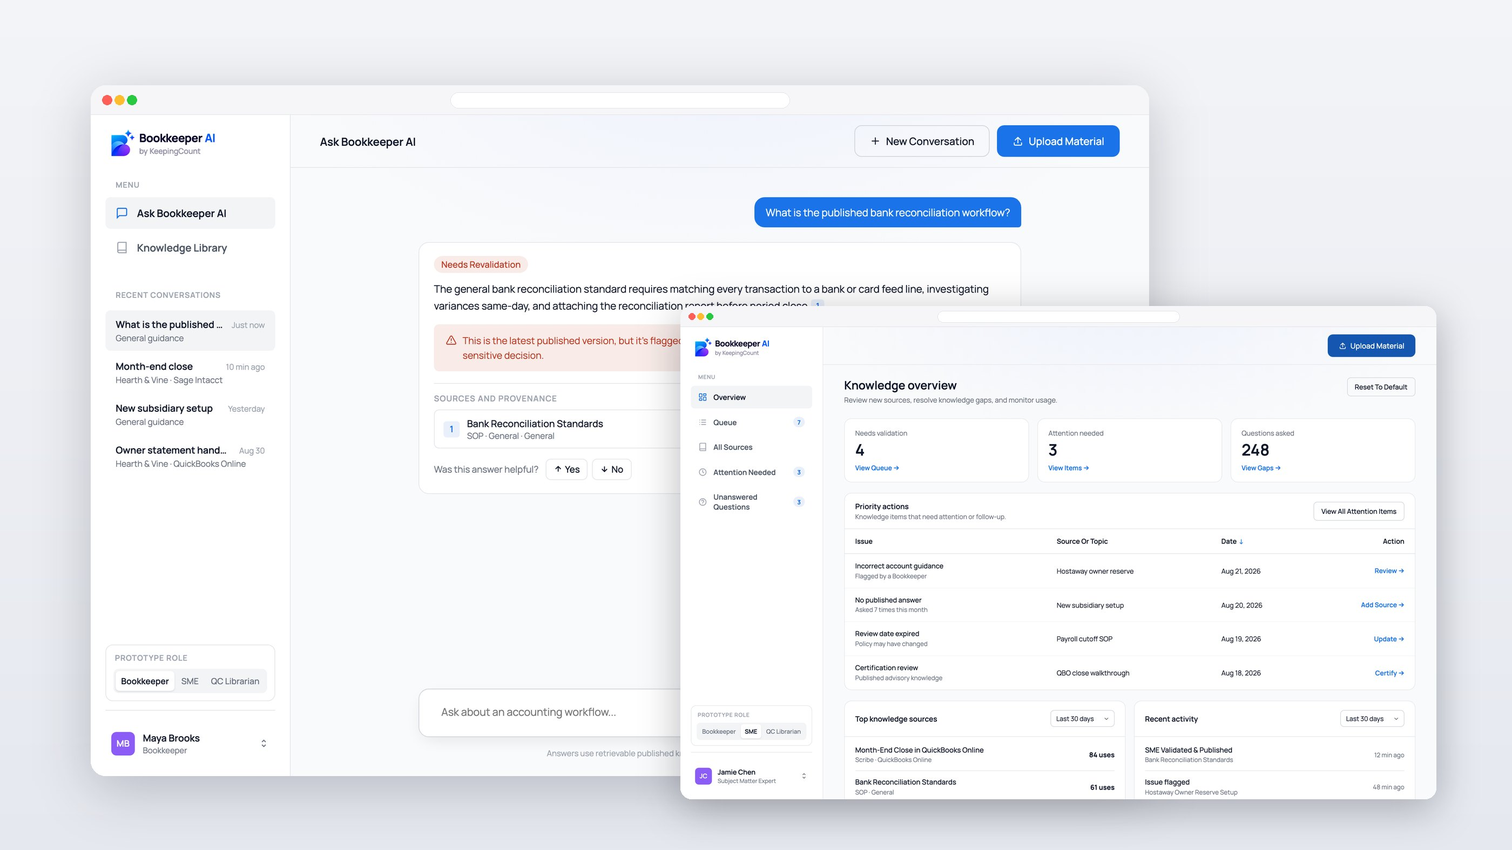
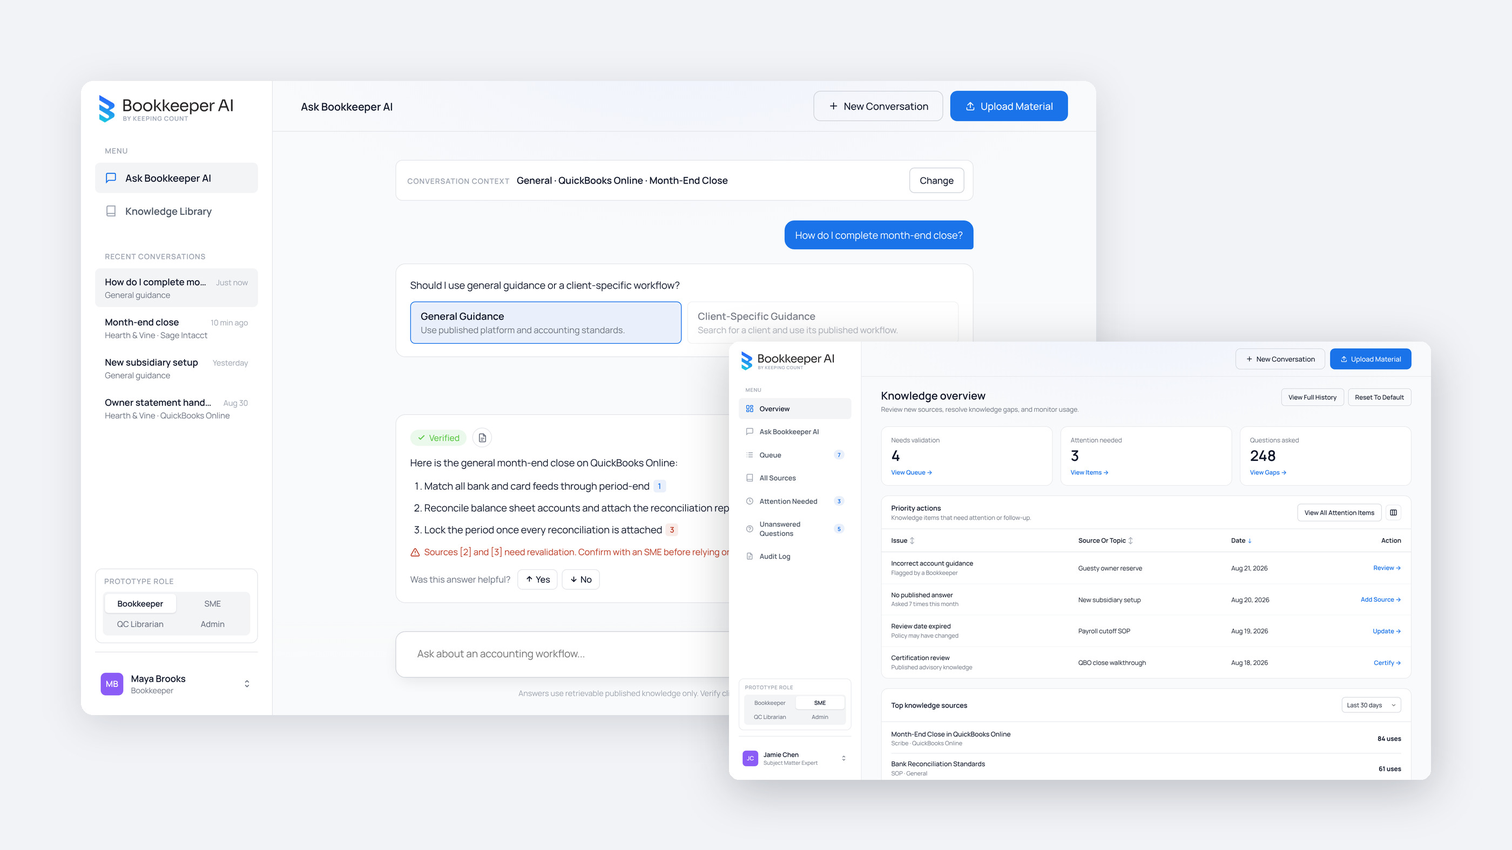
BookKeeper AI: rebuilt from live prototype, photos, flow stairs; 4th on home
Claude-Session: https://claude.ai/code/session_019s9hMNDEcLkm54bZicL17g

diff --git a/cases/bookkeeper-ai.html b/cases/bookkeeper-ai.html
@@ -199,6 +199,16 @@ figure{margin:0}
 
 /* «следующий кейс»: тёмное затемнение снизу, светлый текст */
 .ncase .media::after{background:linear-gradient(to top,rgba(10,14,24,.82) 0%,rgba(10,14,24,.45) 30%,rgba(10,14,24,0) 60%)!important}.ncase .lbl small{color:rgba(255,255,255,.75)!important}.ncase .lbl b{color:#fff!important}
+
+/* User flow: лестница шагов */
+.fstairs{position:relative;display:grid;grid-template-columns:repeat(6,1fr);column-gap:0;row-gap:18px;padding:28px 0}.fstairs>i{position:absolute;top:0;bottom:0;width:0;border-left:1.5px dashed #D5D9E2}.fstairs>i:nth-child(1){left:calc(0% + 50px)}.fstairs>i:nth-child(2){left:calc(16.666% + 50px)}.fstairs>i:nth-child(3){left:calc(33.333% + 50px)}.fstairs>i:nth-child(4){left:calc(50% + 50px)}.fstairs>i:nth-child(5){left:calc(66.666% + 50px)}.fs{position:relative;z-index:1;grid-row:calc(var(--i) + 1);grid-column:calc(var(--i) + 1)/span 2;display:flex;gap:16px;align-items:center;background:#fff;border-radius:24px;padding:12px 22px 12px 12px;box-shadow:0 0 0 1px rgba(18,23,64,.07),0 16px 34px -20px rgba(18,23,64,.25)}.fs-ic{flex:none;width:76px;height:76px;border-radius:18px;display:grid;place-items:center}.fs-ic svg{width:30px;height:30px}.fs-tx{min-width:0}.fs-n{font-size:12px;color:var(--ink-3);font-variant-numeric:tabular-nums}.fs-tx b{display:block;font-family:var(--font-display);font-weight:500;font-size:20px;letter-spacing:-.015em;margin-top:2px}.fs-tx p{font-size:14px;color:var(--ink-2);margin-top:2px}.fs-ch{display:flex;flex-wrap:wrap;gap:6px;margin-top:10px}.fs-ch span{font-size:12px;padding:4px 10px;border-radius:999px;background:#F1F3F8;color:#121740}@media (max-width:980px){.fstairs{grid-template-columns:1fr;padding:0}.fstairs>i{display:none}.fs{grid-row:auto;grid-column:1}}
+
+/* карточки флоу: ровные отступы, концентрические скругления */
+.fs{padding:16px!important;gap:20px!important;align-items:center!important;border-radius:28px!important}.fs-ic{width:88px!important;height:88px!important;align-self:center;border-radius:14px!important}.fs-ic svg{width:32px!important;height:32px!important}.fs-tx{display:flex;flex-direction:column;justify-content:center;padding:6px 14px 6px 0}.fs-n{line-height:1}.fs-tx b{margin-top:8px!important;line-height:1.2}.fs-tx p{margin-top:4px!important;line-height:1.4}.fs-ch{margin-top:12px!important}.fs-ch span{line-height:1.2;padding:5px 10px!important}
+
+/* фото в проблемах/решениях */
+.mix .media img{width:100%;height:100%;object-fit:cover;display:block}
+@media (max-width:980px){.mix .media{position:relative;aspect-ratio:auto!important;min-height:240px}.mix .media img{position:absolute;inset:0}}
 </style>
 </head>
 <body>
@@ -226,7 +236,7 @@ figure{margin:0}
     <div class="tags"><span class="tag">Web app · AI assistant</span><span class="tag acc">[My role]</span></div>
     <span class="year">Accounting operations &nbsp;·&nbsp; [Year]</span>
   </div>
-  <div class="media rv"><img src="../img/cases/bookkeeper-ai/cover.jpg" alt="BookKeeper AI: sourced answer and knowledge overview" loading="lazy"></div>
+  <div class="media rv"><img src="../img/cases/bookkeeper-ai/cover.jpg?v=2" alt="BookKeeper AI: verified answer with sources and the SME knowledge overview" loading="lazy"></div>
 </section>
 <section class="sec cintro">
   <div class="wrap">
@@ -270,13 +280,13 @@ figure{margin:0}
     </div>
     <div class="mix">
       <div class="card rv"><span class="n">01</span><p>SOPs go stale. Platforms and policies change, and nobody knows which guide is still valid.</p></div>
-      <div class="media rv"><img src="../img/cases/bookkeeper-ai/problem-1-outdated.jpg" alt="Knowledge library with sources that need revalidation" loading="lazy"></div>
-      <div class="media rv"><img src="../img/cases/bookkeeper-ai/problem-2-clients.jpg" alt="Client search with several clients" loading="lazy"></div>
+      <div class="media rv"><img src="../img/cases/bookkeeper-ai/photo-p1.jpg?v=1" alt="Shelves of old binders and outdated procedure manuals" loading="lazy"></div>
+      <div class="media rv"><img src="../img/cases/bookkeeper-ai/photo-p2.jpg?v=1" alt="Bookkeeper comparing two clients’ documents side by side" loading="lazy"></div>
       <div class="card rv"><span class="n">02</span><p>Every client has its own workflow. Mixing up two clients’ SOPs is a real risk.</p></div>
-      <div class="media rv"><img src="../img/cases/bookkeeper-ai/problem-3-gaps.jpg" alt="No published guidance found for a question" loading="lazy"></div>
+      <div class="media rv"><img src="../img/cases/bookkeeper-ai/photo-p3.jpg?v=1" alt="Bookkeeper working late without documented guidance" loading="lazy"></div>
       <div class="card rv"><span class="n">03</span><p>When there’s no documented answer, people improvise — and the gap stays invisible.</p></div>
       <div class="card rv"><span class="n">04</span><p>Subject-matter experts are a bottleneck: validation requests pile up with no clear priorities.</p></div>
-      <div class="media rv"><img src="../img/cases/bookkeeper-ai/problem-4-queue.jpg" alt="Queue of items awaiting SME validation and QC certification" loading="lazy"></div>
+      <div class="media rv"><img src="../img/cases/bookkeeper-ai/photo-p4.jpg?v=1" alt="Subject-matter expert buried in review requests" loading="lazy"></div>
     </div>
   </div>
 </section>
@@ -287,14 +297,14 @@ figure{margin:0}
       <p class="body rv">Make every answer traceable, scoped to the right client and backed by people who own the knowledge.</p>
     </div>
     <div class="mix">
-      <div class="media rv"><img src="../img/cases/bookkeeper-ai/solution-1-sources.jpg" alt="Answer with a cited source and its status" loading="lazy"></div>
+      <div class="media rv"><img src="../img/cases/bookkeeper-ai/photo-s1.jpg?v=1" alt="Bookkeeper reading a sourced answer with confidence" loading="lazy"></div>
       <div class="card rv"><span class="n">01</span><p>Answers come only from published sources, with citations, provenance and the source’s lifecycle and certification status.</p></div>
-      <div class="media rv"><img src="../img/cases/bookkeeper-ai/solution-2-scope.jpg" alt="Choosing general or client-specific guidance" loading="lazy"></div>
+      <div class="media rv"><img src="../img/cases/bookkeeper-ai/photo-s2.jpg?v=1" alt="Client folders neatly separated on a shelf" loading="lazy"></div>
       <div class="card rv"><span class="n">02</span><p>Before answering, the assistant clarifies scope: general guidance or a specific client. Another client’s SOPs can’t appear in the answer.</p></div>
       <div class="card rv"><span class="n">03</span><p>Compliance-sensitive answers backed by a source that needs revalidation are shown only after an explicit acknowledgment.</p></div>
-      <div class="media rv"><img src="../img/cases/bookkeeper-ai/solution-3-ack.jpg" alt="Acknowledgment required before viewing the answer" loading="lazy"></div>
+      <div class="media rv"><img src="../img/cases/bookkeeper-ai/photo-s3.jpg?v=1" alt="Ticking an acknowledgment box on a review form" loading="lazy"></div>
       <div class="card rv"><span class="n">04</span><p>Unanswered questions are logged and grouped into knowledge gaps; SMEs and QC get a prioritized overview of what needs attention.</p></div>
-      <div class="media rv"><img src="../img/cases/bookkeeper-ai/solution-4-review.jpg" alt="Knowledge overview with priority actions" loading="lazy"></div>
+      <div class="media rv"><img src="../img/cases/bookkeeper-ai/photo-s4.jpg?v=1" alt="Expert reviewing knowledge with the team" loading="lazy"></div>
     </div>
   </div>
 </section>
@@ -304,10 +314,7 @@ figure{margin:0}
       <h2 class="h2 rv">User flow</h2>
       <p class="body rv">The core path from a bookkeeper’s question to a trusted answer — and what happens when trust can’t be established.</p>
     </div>
-    <figure class="fig rv">
-      <div class="media"><img src="../img/cases/bookkeeper-ai/flow.jpg" alt="User flow: ask, clarify scope, retrieve, answer, feedback" loading="lazy"></div>
-      <figcaption>Gaps go to the SME queue, outdated sources require acknowledgment, and feedback feeds validation and certification.</figcaption>
-    </figure>
+    <div class="fstairs"><i></i><i></i><i></i><i></i><i></i><div class="fs rv" style="--i:0"><div class="fs-ic" style="background:#1A73E8"><svg viewBox="0 0 24 24" fill="none" stroke="#fff" stroke-width="1.8" stroke-linecap="round" stroke-linejoin="round"><path d="M21 15a2 2 0 0 1-2 2H7l-4 4V5a2 2 0 0 1 2-2h14a2 2 0 0 1 2 2z"/></svg></div><div class="fs-tx"><span class="fs-n">01</span><b>Ask</b><p>A question in plain language</p><div class="fs-ch"><span>Suggested questions</span></div></div></div><div class="fs rv" style="--i:1"><div class="fs-ic" style="background:#8B5CF6"><svg viewBox="0 0 24 24" fill="none" stroke="#fff" stroke-width="1.8" stroke-linecap="round" stroke-linejoin="round"><circle cx="12" cy="12" r="9"/><path d="M12 3a14 14 0 0 1 0 18M12 3a14 14 0 0 0 0 18M3 12h18"/></svg></div><div class="fs-tx"><span class="fs-n">02</span><b>Clarify scope</b><p>General or client-specific</p><div class="fs-ch"><span>Client search</span></div></div></div><div class="fs rv" style="--i:2"><div class="fs-ic" style="background:#0F172A"><svg viewBox="0 0 24 24" fill="none" stroke="#fff" stroke-width="1.8" stroke-linecap="round" stroke-linejoin="round"><circle cx="11" cy="11" r="7"/><path d="m20 20-3.5-3.5"/></svg></div><div class="fs-tx"><span class="fs-n">03</span><b>Retrieve</b><p>Published sources only</p><div class="fs-ch"><span>No source → SME queue</span></div></div></div><div class="fs rv" style="--i:3"><div class="fs-ic" style="background:#BB3923"><svg viewBox="0 0 24 24" fill="none" stroke="#fff" stroke-width="1.8" stroke-linecap="round" stroke-linejoin="round"><path d="M14 3H6a2 2 0 0 0-2 2v14a2 2 0 0 0 2 2h12a2 2 0 0 0 2-2V9z"/><path d="M14 3v6h6"/><path d="M8 13h8M8 17h5"/></svg></div><div class="fs-tx"><span class="fs-n">04</span><b>Answer</b><p>Citations · source status</p><div class="fs-ch"><span>Revalidation → acknowledge</span></div></div></div><div class="fs rv" style="--i:4"><div class="fs-ic" style="background:#2F8F57"><svg viewBox="0 0 24 24" fill="none" stroke="#fff" stroke-width="1.8" stroke-linecap="round" stroke-linejoin="round"><path d="M20 6 9 17l-5-5"/></svg></div><div class="fs-tx"><span class="fs-n">05</span><b>Feedback</b><p>Helpful · report an issue</p><div class="fs-ch"><span>SME validates</span><span>QC certifies</span></div></div></div></div>
   </div>
 </section>
 <section class="sec">
@@ -339,14 +346,17 @@ figure{margin:0}
   <div class="wrap">
     <div class="shead">
       <h2 class="h2 rv">UI design</h2>
-      <p class="body rv">A focused ask screen, a review queue for knowledge gaps, and a two-step upload that starts AI analysis right away.</p>
+      <p class="body rv">A verified answer with sources, a knowledge overview for experts, a library with source status, honest “no answer” states, upload and AI insights.</p>
     </div>
     <div class="screens">
-      <div class="media span rv"><img src="../img/cases/bookkeeper-ai/screen-home.jpg" alt="Ask Bookkeeper AI with suggested questions" loading="lazy"></div>
-      <div class="media rv"><img src="../img/cases/bookkeeper-ai/screen-gaps.jpg" alt="Unanswered questions grouped into knowledge gaps" loading="lazy"></div>
-      <div class="media rv"><img src="../img/cases/bookkeeper-ai/screen-upload.jpg" alt="Two-step upload of new material" loading="lazy"></div>
+      <div class="media span rv"><img src="../img/cases/bookkeeper-ai/screen-answer.jpg?v=1" alt="Verified answer with numbered sources and a revalidation warning" loading="lazy"></div>
+      <div class="media rv"><img src="../img/cases/bookkeeper-ai/screen-overview.jpg?v=1" alt="SME knowledge overview with priority actions" loading="lazy"></div>
+      <div class="media rv"><img src="../img/cases/bookkeeper-ai/screen-library.jpg?v=1" alt="Knowledge library with source status" loading="lazy"></div>
+      <div class="media rv"><img src="../img/cases/bookkeeper-ai/screen-gap.jpg?v=1" alt="No reliable published guidance found" loading="lazy"></div>
+      <div class="media rv"><img src="../img/cases/bookkeeper-ai/screen-upload.jpg?v=2" alt="Upload material panel" loading="lazy"></div>
+      <div class="media span rv"><img src="../img/cases/bookkeeper-ai/screen-insights.jpg?v=1" alt="AI insights: usage, cost and answer quality" loading="lazy"></div>
     </div>
-    <p class="body rv" style="margin-top:20px"><a href="https://bookkeeper-ai-tau.vercel.app/" target="_blank" rel="noopener" style="color:var(--brand)">Open the live prototype ↗</a></p>
+    <p class="body rv" style="margin-top:20px"><a href="https://index-keeping-count-v3.vercel.app/#bookkeeper" target="_blank" rel="noopener" style="color:var(--brand)">Open the live prototype ↗</a></p>
   </div>
 </section>
 <section class="sec">
@@ -368,9 +378,9 @@ figure{margin:0}
 <section class="sec">
   <div class="wrap">
     <div class="next">
-      <a class="ncase rv" href="uncloud.html">
-        <div class="media"><img src="../img/cases/uncloud/cover.jpg?v=3" alt="Uncloud360" loading="lazy"></div>
-        <div class="lbl"><div><small>Next case study</small><b>Uncloud360</b></div><span class="arr circle"><svg width="16" height="16" viewBox="0 0 16 16" fill="none" stroke="currentColor" stroke-width="1.6" stroke-linecap="round" stroke-linejoin="round"><path d="M3 8h10M9 4l4 4-4 4"/></svg></span></div>
+      <a class="ncase rv" href="tournament-guru.html">
+        <div class="media"><img src="../img/cases/tournament-guru/cover.jpg" alt="Tournament Guru" loading="lazy"></div>
+        <div class="lbl"><div><small>Next case study</small><b>Tournament Guru</b></div><span class="arr circle"><svg width="16" height="16" viewBox="0 0 16 16" fill="none" stroke="currentColor" stroke-width="1.6" stroke-linecap="round" stroke-linejoin="round"><path d="M3 8h10M9 4l4 4-4 4"/></svg></span></div>
       </a>
       <div class="cta rv">
         <div><h2 class="h2" style="font-size:clamp(30px,3.2vw,40px)">Let’s talk.</h2><p class="body" style="margin-top:12px">Tell me about the role or project — I reply within a day.</p></div>

diff --git a/ru.html b/ru.html
@@ -983,25 +983,25 @@ dialog.sheet[open]{animation:pop .45s var(--ease)}
       </div>
       <div class="wk-vis wk-img pvw sq" data-r="20"><div class="pv-ph sq" data-r="18"><img src="img/cases/stulo/cover.jpg?v=3" alt="StuLo" loading="lazy"></div></div>
     </a>
+    <a class="wk wk-photo sq" data-r="28" data-cursor="Открыть кейс +" href="cases/bookkeeper-ai.html" style="--bg:var(--band);--ih:80%;--fg:#1d1d1f;--fg2:#3a3a3c;--ln:rgba(0,0,0,.12)">
+      <div class="wk-info">
+        <span class="wk-n">04 / 05<i>Бухгалтерия</i></span>
+        <h3>BookKeeper AI</h3>
+        <p>AI-ассистент для бухгалтеров, который отвечает только по проверенным регламентам и показывает источник.</p>
+        <dl class="wk-kpi"><div><dt>Веб</dt><dd>Тип продукта</dd></div><div><dt>[Роль]</dt><dd>Моя роль</dd></div><div><dt>[Срок]</dt><dd>Длительность</dd></div></dl>
+        <span class="wk-cta">Смотреть кейс</span>
+      </div>
+      <div class="wk-vis wk-img pvw sq" data-r="20"><div class="pv-ph sq" data-r="18"><img src="img/cases/bookkeeper-ai/cover.jpg?v=2" alt="BookKeeper AI" loading="lazy"></div></div>
+    </a>
     <a class="wk wk-photo sq" data-r="28" data-cursor="Открыть кейс +" href="cases/tournament-guru.html" style="--bg:var(--band);--ih:80%;--fg:#1d1d1f;--fg2:#3a3a3c;--ln:rgba(0,0,0,.12)">
       <div class="wk-info">
-        <span class="wk-n">04 / 05<i>Детский спорт</i></span>
+        <span class="wk-n">05 / 05<i>Детский спорт</i></span>
         <h3>Tournament Guru</h3>
         <p>Сервис для выбора детских турниров с проверенными отзывами команд, которые там играли.</p>
         <dl class="wk-kpi"><div><dt>Веб</dt><dd>Тип продукта</dd></div><div><dt>[Роль]</dt><dd>Моя роль</dd></div><div><dt>[Срок]</dt><dd>Длительность</dd></div></dl>
         <span class="wk-cta">Смотреть кейс</span>
       </div>
       <div class="wk-vis wk-img pvw sq" data-r="20"><div class="pv-ph sq" data-r="18"><img src="img/cases/tournament-guru/cover.jpg" alt="Tournament Guru" loading="lazy"></div></div>
-    </a>
-    <a class="wk wk-photo sq" data-r="28" data-cursor="Открыть кейс +" href="cases/bookkeeper-ai.html" style="--bg:var(--band);--ih:80%;--fg:#1d1d1f;--fg2:#3a3a3c;--ln:rgba(0,0,0,.12)">
-      <div class="wk-info">
-        <span class="wk-n">05 / 05<i>Бухгалтерия</i></span>
-        <h3>BookKeeper AI</h3>
-        <p>AI-ассистент для бухгалтеров, который отвечает только по проверенным регламентам и показывает источник.</p>
-        <dl class="wk-kpi"><div><dt>Веб</dt><dd>Тип продукта</dd></div><div><dt>[Роль]</dt><dd>Моя роль</dd></div><div><dt>[Срок]</dt><dd>Длительность</dd></div></dl>
-        <span class="wk-cta">Смотреть кейс</span>
-      </div>
-      <div class="wk-vis wk-img pvw sq" data-r="20"><div class="pv-ph sq" data-r="18"><img src="img/cases/bookkeeper-ai/cover.jpg" alt="BookKeeper AI" loading="lazy"></div></div>
     </a>
   </div>
 </section>

diff --git a/index.html b/index.html
@@ -983,25 +983,25 @@ dialog.sheet[open]{animation:pop .45s var(--ease)}
       </div>
       <div class="wk-vis wk-img pvw sq" data-r="20"><div class="pv-ph sq" data-r="18"><img src="img/cases/stulo/cover.jpg?v=3" alt="StuLo" loading="lazy"></div></div>
     </a>
+    <a class="wk wk-photo sq" data-r="28" data-cursor="Open case +" href="cases/bookkeeper-ai.html" style="--bg:var(--band);--ih:80%;--fg:#1d1d1f;--fg2:#3a3a3c;--ln:rgba(0,0,0,.12)">
+      <div class="wk-info">
+        <span class="wk-n">04 / 05<i>Accounting</i></span>
+        <h3>BookKeeper AI</h3>
+        <p>An AI assistant for bookkeepers that answers only from validated SOPs and shows the source.</p>
+        <dl class="wk-kpi"><div><dt>Web</dt><dd>Product type</dd></div><div><dt>[Role]</dt><dd>My role</dd></div><div><dt>[Timeline]</dt><dd>Duration</dd></div></dl>
+        <span class="wk-cta">View case</span>
+      </div>
+      <div class="wk-vis wk-img pvw sq" data-r="20"><div class="pv-ph sq" data-r="18"><img src="img/cases/bookkeeper-ai/cover.jpg?v=2" alt="BookKeeper AI" loading="lazy"></div></div>
+    </a>
     <a class="wk wk-photo sq" data-r="28" data-cursor="Open case +" href="cases/tournament-guru.html" style="--bg:var(--band);--ih:80%;--fg:#1d1d1f;--fg2:#3a3a3c;--ln:rgba(0,0,0,.12)">
       <div class="wk-info">
-        <span class="wk-n">04 / 05<i>Youth sports</i></span>
+        <span class="wk-n">05 / 05<i>Youth sports</i></span>
         <h3>Tournament Guru</h3>
         <p>A service for choosing youth tournaments, with verified reviews from teams who played there.</p>
         <dl class="wk-kpi"><div><dt>Web</dt><dd>Product type</dd></div><div><dt>[Role]</dt><dd>My role</dd></div><div><dt>[Timeline]</dt><dd>Duration</dd></div></dl>
         <span class="wk-cta">View case</span>
       </div>
       <div class="wk-vis wk-img pvw sq" data-r="20"><div class="pv-ph sq" data-r="18"><img src="img/cases/tournament-guru/cover.jpg" alt="Tournament Guru" loading="lazy"></div></div>
-    </a>
-    <a class="wk wk-photo sq" data-r="28" data-cursor="Open case +" href="cases/bookkeeper-ai.html" style="--bg:var(--band);--ih:80%;--fg:#1d1d1f;--fg2:#3a3a3c;--ln:rgba(0,0,0,.12)">
-      <div class="wk-info">
-        <span class="wk-n">05 / 05<i>Accounting</i></span>
-        <h3>BookKeeper AI</h3>
-        <p>An AI assistant for bookkeepers that answers only from validated SOPs and shows the source.</p>
-        <dl class="wk-kpi"><div><dt>Web</dt><dd>Product type</dd></div><div><dt>[Role]</dt><dd>My role</dd></div><div><dt>[Timeline]</dt><dd>Duration</dd></div></dl>
-        <span class="wk-cta">View case</span>
-      </div>
-      <div class="wk-vis wk-img pvw sq" data-r="20"><div class="pv-ph sq" data-r="18"><img src="img/cases/bookkeeper-ai/cover.jpg" alt="BookKeeper AI" loading="lazy"></div></div>
     </a>
   </div>
 </section>

diff --git a/cases/stulo.html b/cases/stulo.html
@@ -375,9 +375,9 @@ figure{margin:0}
 <section class="sec">
   <div class="wrap">
     <div class="next">
-      <a class="ncase rv" href="tournament-guru.html">
-        <div class="media"><img src="../img/cases/tournament-guru/cover.jpg" alt="Tournament Guru" loading="lazy"></div>
-        <div class="lbl"><div><small>Next case study</small><b>Tournament Guru</b></div><span class="arr circle"><svg width="16" height="16" viewBox="0 0 16 16" fill="none" stroke="currentColor" stroke-width="1.6" stroke-linecap="round" stroke-linejoin="round"><path d="M3 8h10M9 4l4 4-4 4"/></svg></span></div>
+      <a class="ncase rv" href="bookkeeper-ai.html">
+        <div class="media"><img src="../img/cases/bookkeeper-ai/cover.jpg?v=2" alt="BookKeeper AI" loading="lazy"></div>
+        <div class="lbl"><div><small>Next case study</small><b>BookKeeper AI</b></div><span class="arr circle"><svg width="16" height="16" viewBox="0 0 16 16" fill="none" stroke="currentColor" stroke-width="1.6" stroke-linecap="round" stroke-linejoin="round"><path d="M3 8h10M9 4l4 4-4 4"/></svg></span></div>
       </a>
       <div class="cta rv">
         <div><h2 class="h2" style="font-size:clamp(30px,3.2vw,40px)">Let’s talk.</h2><p class="body" style="margin-top:12px">Tell me about the role or project — I reply within a day.</p></div>

diff --git a/cases/tournament-guru.html b/cases/tournament-guru.html
@@ -377,9 +377,9 @@ figure{margin:0}
 <section class="sec">
   <div class="wrap">
     <div class="next">
-      <a class="ncase rv" href="bookkeeper-ai.html">
-        <div class="media"><img src="../img/cases/bookkeeper-ai/cover.jpg" alt="BookKeeper AI" loading="lazy"></div>
-        <div class="lbl"><div><small>Next case study</small><b>BookKeeper AI</b></div><span class="arr circle"><svg width="16" height="16" viewBox="0 0 16 16" fill="none" stroke="currentColor" stroke-width="1.6" stroke-linecap="round" stroke-linejoin="round"><path d="M3 8h10M9 4l4 4-4 4"/></svg></span></div>
+      <a class="ncase rv" href="uncloud.html">
+        <div class="media"><img src="../img/cases/uncloud/cover.jpg?v=3" alt="Uncloud360" loading="lazy"></div>
+        <div class="lbl"><div><small>Next case study</small><b>Uncloud360</b></div><span class="arr circle"><svg width="16" height="16" viewBox="0 0 16 16" fill="none" stroke="currentColor" stroke-width="1.6" stroke-linecap="round" stroke-linejoin="round"><path d="M3 8h10M9 4l4 4-4 4"/></svg></span></div>
       </a>
       <div class="cta rv">
         <div><h2 class="h2" style="font-size:clamp(30px,3.2vw,40px)">Let’s talk.</h2><p class="body" style="margin-top:12px">Tell me about the role or project — I reply within a day.</p></div>

diff --git a/cases/_tools/build_bookkeeper.py b/cases/_tools/build_bookkeeper.py
@@ -1,0 +1,39 @@
+"""BookKeeper AI: обложка, экраны и фото. Запуск из корня репозитория."""
+import sys
+sys.path.insert(0, 'cases/_tools')
+from PIL import Image
+import flat as F
+
+S, O = 'cases/_src/bookkeeper', 'img/cases/bookkeeper-ai'
+BG = (241, 243, 247)
+
+
+def scr(n):
+    return Image.open(f'{S}/{n}.png').convert('RGB').crop((0, 0, 2880, 1800))
+
+
+def tile(img, size, pad, r):
+    W, H = size
+    cv = Image.new('RGBA', size, BG + (255,))
+    c = F.fit(img, W - pad * 2, H - pad * 2)
+    F._place(cv, F._card(c, r, border=False), ((W - c.width) // 2, (H - c.height) // 2), r, blur=26, alpha=30, dy=12)
+    return cv
+
+
+# обложка: экран ответа с источниками + обзор знаний для SME поверх
+W, H = 2800, 1575
+cv = Image.new('RGBA', (W, H), BG + (255,))
+a = F.fit(scr('07-answer-full'), w=1880)
+F._place(cv, F._card(a, 22, border=False), (150, 150), 22, blur=34, alpha=34, dy=16)
+b = F.fit(scr('10-sme'), w=1300)
+F._place(cv, F._card(b, 18, border=False), (W - 150 - b.width, H - 130 - b.height), 18, blur=40, alpha=60, dy=20)
+F.save(cv, f'{O}/cover.jpg')
+
+F.save(tile(scr('07-answer-full'), (2400, 1200), 90, 22), f'{O}/screen-answer.jpg')
+F.save(tile(scr('11-qc-AIInsights'), (2400, 1200), 90, 22), f'{O}/screen-insights.jpg')
+for n, out in [('10-sme', 'overview'), ('05-library', 'library'), ('04-gap', 'gap'), ('06-upload', 'upload')]:
+    F.save(tile(scr(n), (1600, 1000), 80, 16), f'{O}/screen-{out}.jpg')
+
+for k in ['p1', 'p2', 'p3', 'p4', 's1', 's2', 's3', 's4']:
+    Image.open(f'{S}/ai/{k}.png').convert('RGB').save(f'{O}/photo-{k}.jpg', quality=90, subsampling=0, optimize=True)
+print('ok')
